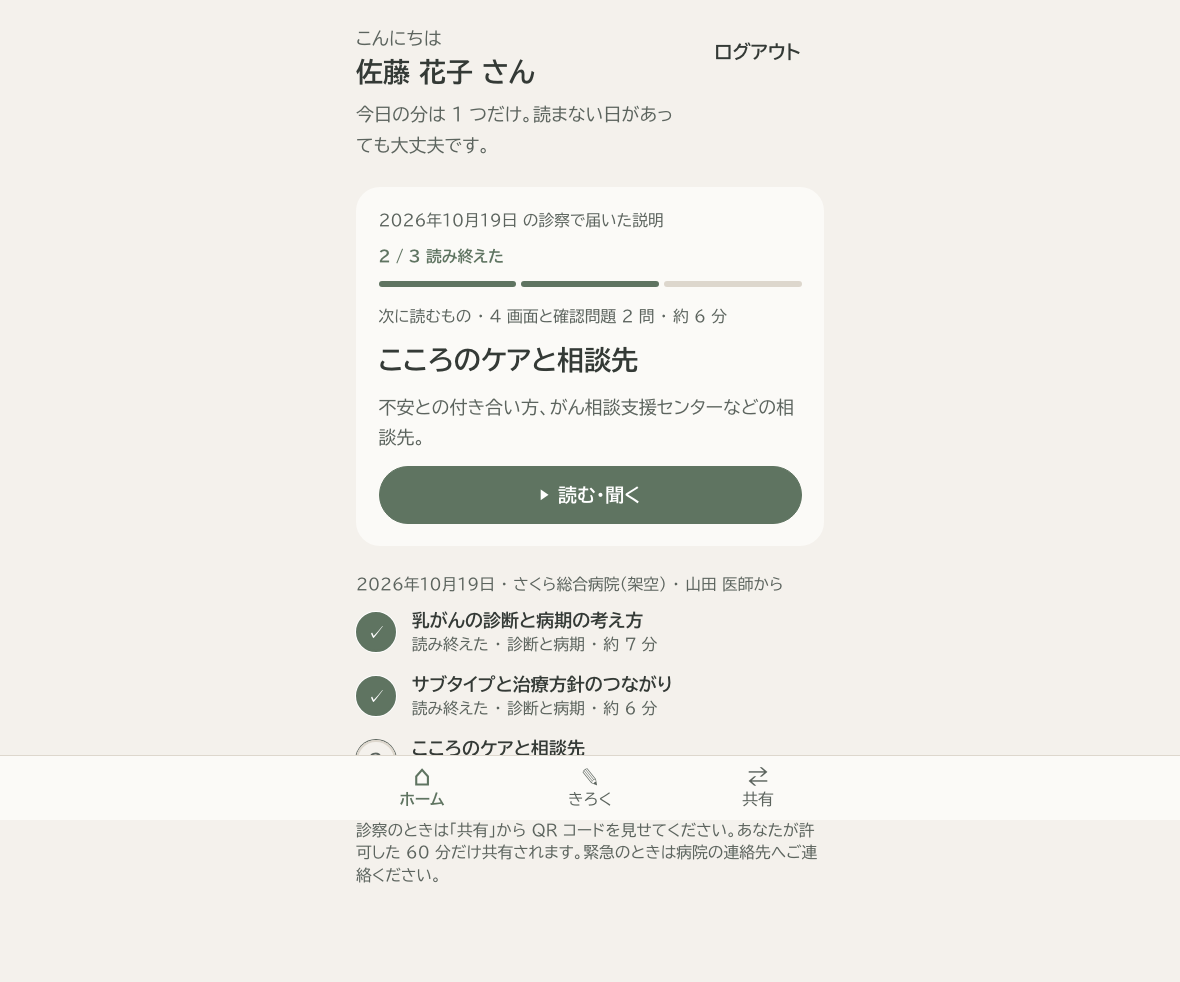
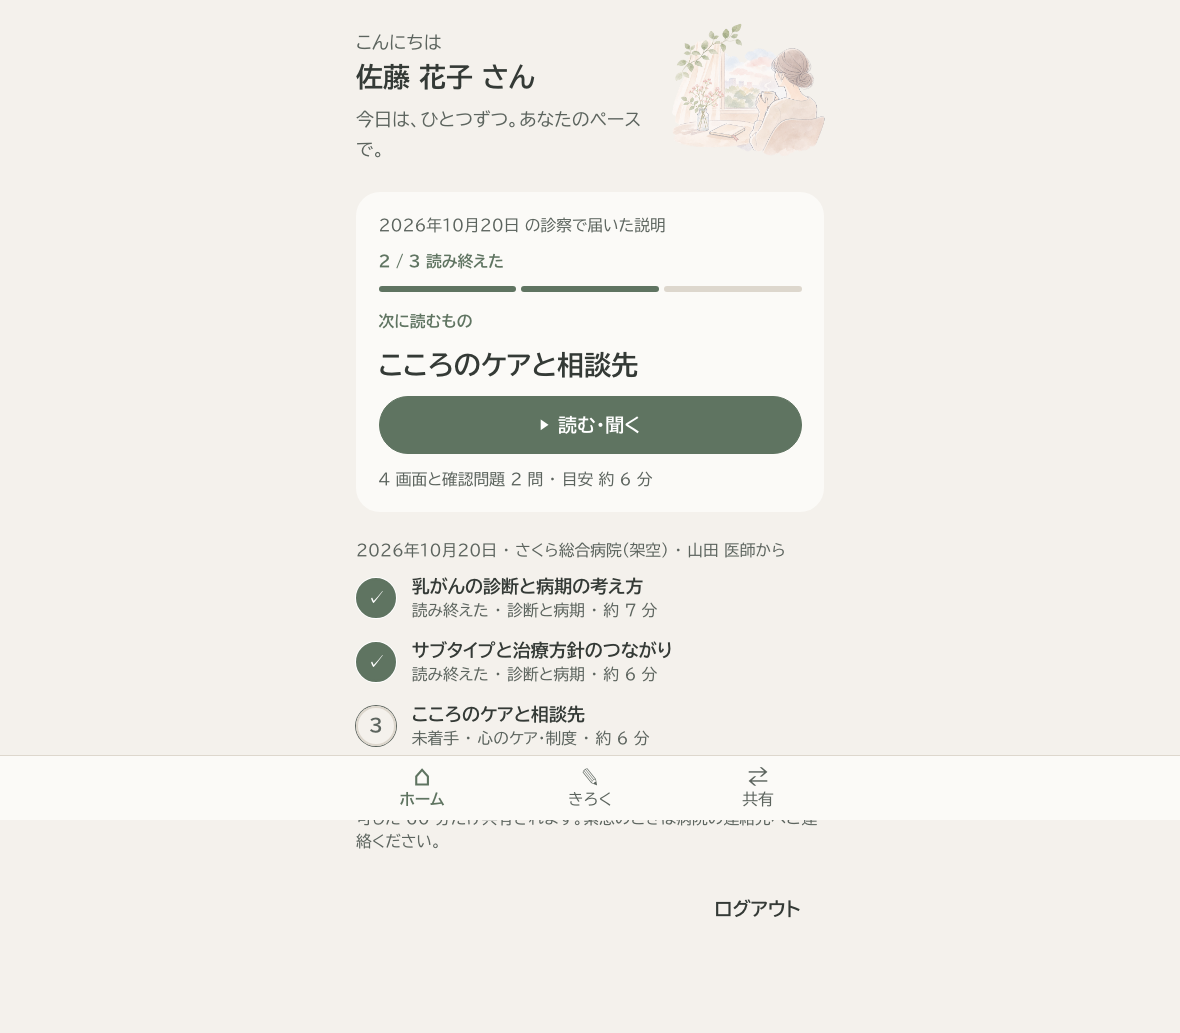
feat: home card hierarchy and greeting; MED-001 split into three independent assets
- Home: shorter greeting, next-material card reordered (label → title → CTA → meta); illustration
  shrinks to 118px at large text size; E2E covers 390/430/820/1180 and large-text 390/430
- MED-001 → MED-001-01 (primary lesion), -02 (breast and regional nodes), -03 (distant spread):
  independent pending_review assets with labels, captions, learning objectives and source refs;
  no sequencing implied; patient API still returns nothing until approved
- Admin preview shows learning objective, source refs and review note per figure
- docs/design/MED001_ASSET_SPEC.md (registration, placement, display sizes, initial labels);
  visual requirements CSV and integration spec updated

Changed region(s): [[0.3051, 0.2138, 0.7017, 0.9165], [0.3051, 0.0305, 0.5492, 0.1527], [0.5797, 0.0305, 0.7017, 0.1527]]

diff --git a/src/server/db/seed-figures.ts b/src/server/db/seed-figures.ts
@@ -13,23 +13,55 @@ export const SEED_FIGURES: {
   placements: { materialTitle: string; slideSeq: number; labels: FigureLabel[]; caption: string | null }[];
   /** 納品済みの配信ファイル（public/assets/<type>/ に存在すれば登録し、editorial は公開可として approved にする） */
   delivered?: { filename: string; width: number; height: number };
+  /** 根拠資料（監修プレビューに表示） */
+  sourceRefs?: { sourceId: string; section?: string; quote?: string }[];
 }[] = [
+  // 病期の考え方: 3 枚は「順番に進行する段階」ではなく、病期を考えるときに参照する別々の情報
   {
-    assetId: "MED-001",
+    assetId: "MED-001-01",
     type: "medical",
-    altText: "乳房周囲とわきの下の位置関係を示す乳がんの模式図",
-    longDescription: "成人女性の上半身の模式図。片側の乳房の位置と、わきの下のリンパ節の位置が読み取れる。小さな全身の輪郭で、離れた臓器との位置関係を控えめに示す。",
-    learningObjective: "病期を考えるには、乳房内の病変だけでなく、近くのリンパ節や離れた場所への広がりを確認すると知る",
+    altText: "乳房のなかにある原発病変の位置を示す模式図",
+    longDescription: "成人女性の片側の乳房を正面から見た端正な模式図。乳房のなかに病変の位置が控えめに示されている。病変は誇張しない。",
+    learningObjective: "病期を考える情報のひとつとして、乳房のなかの病変（原発病変）の大きさや位置を確認すると知る",
+    placements: [
+      {
+        materialTitle: "乳がんの診断と病期の考え方",
+        slideSeq: 1,
+        labels: [{ id: "primary", text: "乳房内の病変", anchor: { x: 50, y: 52 }, offset: { x: 0, y: 26 } }],
+        caption: "乳房のなかの病変（原発病変）。大きさや位置を確認します。",
+      },
+    ],
+  },
+  {
+    assetId: "MED-001-02",
+    type: "medical",
+    altText: "乳房とわきの下の領域リンパ節の位置関係を示す模式図",
+    longDescription: "成人女性の上半身の模式図。片側の乳房と、わきの下（腋窩）のリンパ節の位置関係が自然に読み取れる。",
+    learningObjective: "病期を考える情報のひとつとして、乳房に近いリンパ節（領域リンパ節）への広がりを確認すると知る",
     placements: [
       {
         materialTitle: "乳がんの診断と病期の考え方",
         slideSeq: 1,
         labels: [
-          { id: "breast", text: "乳房内の病変", anchor: { x: 38, y: 58 }, offset: { x: -14, y: 22 } },
-          { id: "node", text: "近くのリンパ節", anchor: { x: 52, y: 40 }, offset: { x: 10, y: -30 } },
-          { id: "distant", text: "離れた場所への広がり", anchor: { x: 84, y: 62 }, offset: { x: -4, y: 20 } },
+          { id: "breast", text: "乳房", anchor: { x: 40, y: 58 }, offset: { x: -10, y: 24 } },
+          { id: "node", text: "近くのリンパ節（わきの下）", anchor: { x: 60, y: 38 }, offset: { x: 10, y: -24 } },
         ],
-        caption: "病期を考えるときは、乳房のなかの病変だけでなく、近くのリンパ節や、離れた場所への広がりも確認します。",
+        caption: "乳房に近いリンパ節（わきの下など）への広がりを確認します。",
+      },
+    ],
+  },
+  {
+    assetId: "MED-001-03",
+    type: "medical",
+    altText: "全身の輪郭のなかで離れた臓器の位置を示す模式図",
+    longDescription: "成人女性の全身シルエットの模式図。乳房から離れた臓器（骨・肺・肝臓など）の位置関係を控えめに示す。病変の有無を断定しない。",
+    learningObjective: "病期を考える情報のひとつとして、離れた臓器への広がり（転移）の有無を確認すると知る",
+    placements: [
+      {
+        materialTitle: "乳がんの診断と病期の考え方",
+        slideSeq: 1,
+        labels: [{ id: "distant", text: "離れた臓器への広がり", anchor: { x: 50, y: 45 }, offset: { x: 0, y: 30 } }],
+        caption: "離れた臓器への広がり（転移）の有無を確認します。",
       },
     ],
   },

diff --git a/tests/integration/figures.test.ts b/tests/integration/figures.test.ts
@@ -37,7 +37,7 @@ describe("図解の配信ゲート（未承認は患者に出ない）", () => {
     const versionId = m.v!;
     // 配置はあるが pending_review（MED-001）
     const all = await listAllFiguresForVersion(versionId);
-    expect(all[1]?.[0]?.assetId).toBe("MED-001");
+    expect(all[1]?.map((f) => f.assetId)).toEqual(["MED-001-01", "MED-001-02", "MED-001-03"]);
     expect(all[1][0].reviewStatus).toBe("pending_review");
     const approved = await listApprovedFiguresForVersion(versionId);
     expect(approved[1] ?? []).toHaveLength(0);
@@ -55,15 +55,15 @@ describe("図解の配信ゲート（未承認は患者に出ない）", () => {
 
     // 画像ファイルが無いままでは承認できない。ファイルを登録すると承認でき、患者ビューに現れる
     const approver = principal("op.approver@example.com");
-    await expectAppError(reviewFigure(approver, "MED-001", "approved", null), 403, "ASSET_FILE_MISSING");
-    await getDb().update(figureAssets).set({ filename: "med_001_breast_stage_anatomy.png", width: 1536, height: 1024 }).where(eq(figureAssets.assetId, "MED-001"));
-    await reviewFigure(approver, "MED-001", "approved", "デモ用に承認");
+    await expectAppError(reviewFigure(approver, "MED-001-02", "approved", null), 403, "ASSET_FILE_MISSING");
+    await getDb().update(figureAssets).set({ filename: "med_001_02_regional_nodes.png", width: 1536, height: 1024 }).where(eq(figureAssets.assetId, "MED-001-02"));
+    await reviewFigure(approver, "MED-001-02", "approved", "デモ用に承認");
     const after = await getLearningView(uid(PATIENT_B), versionId);
     expect(after.slides[0].figures).toHaveLength(1);
-    expect(after.slides[0].figures[0].src).toBe("/assets/medical/med_001_breast_stage_anatomy.png");
-    expect(after.slides[0].figures[0].labels.map((l) => l.text)).toContain("近くのリンパ節");
+    expect(after.slides[0].figures[0].src).toBe("/assets/medical/med_001_02_regional_nodes.png");
+    expect(after.slides[0].figures[0].labels.map((l) => l.text)).toContain("近くのリンパ節（わきの下）");
     // 差し戻すと再び非表示
-    await reviewFigure(approver, "MED-001", "rejected", "位置関係を要確認");
+    await reviewFigure(approver, "MED-001-02", "rejected", "位置関係を要確認");
     expect((await getLearningView(uid(PATIENT_B), versionId)).slides[0].figures).toHaveLength(0);
   });
 
@@ -75,7 +75,7 @@ describe("図解の配信ゲート（未承認は患者に出ない）", () => {
     await expectAppError(requireMaterialRole(principal("nurse.tanaka@example.com"), versionId), 403, "NOT_MATERIAL_ORG_MEMBER");
     const editor = await requireMaterialRole(principal("op.editor@example.com"), versionId);
     expect(editor.canApprove).toBe(false);
-    await expectAppError(reviewFigure(principal("op.editor@example.com"), "MED-001", "pending_review", null), 403, "APPROVER_REQUIRED");
+    await expectAppError(reviewFigure(principal("op.editor@example.com"), "MED-001-01", "pending_review", null), 403, "APPROVER_REQUIRED");
     const approver = await requireMaterialRole(principal("op.approver@example.com"), versionId);
     expect(approver.canApprove).toBe(true);
     // 患者は不可

diff --git a/src/app/(patient)/home/page.tsx b/src/app/(patient)/home/page.tsx
@@ -33,7 +33,7 @@ export default async function PatientHome() {
         <div className="min-w-0 pt-1">
           <p className="text-ink-soft">こんにちは</p>
           <h1 className="text-2xl font-bold leading-snug">{u.name} さん</h1>
-          <p className="text-ink-soft mt-2">今日の分は 1 つだけ。読まない日があっても大丈夫です。</p>
+          <p className="text-ink-soft mt-2">今日は、ひとつずつ。あなたのペースで。</p>
         </div>
         {/* 挿絵は見出しの右。ログアウトは最下部に移し、ファーストビューを挨拶・挿絵・主役カードだけにする */}
         {edi && <EditorialIllustration src={edi.src} alt={edi.altText} className="shrink-0 -mt-1 -mr-1" />}
@@ -56,21 +56,19 @@ export default async function PatientHome() {
               </div>
             </>
           )}
-          <p className="text-sm text-ink-soft pt-1">
-            {inProgress ? "途中の教材" : "次に読むもの"} ・ {next.slideCount} 画面と確認問題 {next.questionCount} 問 ・ 約 {estimateMinutes(next.slideCount, next.questionCount)} 分
-          </p>
+          <p className="text-sm font-bold text-accent pt-1">{inProgress ? "途中の教材" : "次に読むもの"}</p>
           <h2 id="next-title" className="text-2xl font-bold leading-snug">
             {next.title}
           </h2>
-          {next.summary && <p className="text-ink-soft">{next.summary}</p>}
-          {next.phase === "reading" && (
-            <p className="text-sm text-ink-soft">
-              {Math.min(next.lastSlideSeq, next.slideCount)} / {next.slideCount} 画面まで読みました
-            </p>
-          )}
           <Link href={hrefFor(next)} className="btn btn-primary btn-block">
             <span aria-hidden>▶</span> {actionLabel(next)}
           </Link>
+          <p className="text-sm text-ink-soft">
+            {next.phase === "reading"
+              ? `${Math.min(next.lastSlideSeq, next.slideCount)} / ${next.slideCount} 画面まで読みました`
+              : `${next.slideCount} 画面と確認問題 ${next.questionCount} 問`}
+            {" ・ "}目安 約 {estimateMinutes(next.slideCount, next.questionCount)} 分
+          </p>
         </section>
       ) : allDone ? (
         <section className="card space-y-2">

diff --git a/src/server/db/seed.ts b/src/server/db/seed.ts
@@ -126,6 +126,7 @@ export async function seed(db: Db = getDb()) {
         altText: f.altText,
         longDescription: f.longDescription,
         learningObjective: f.learningObjective,
+        sourceRefs: f.sourceRefs ?? [{ sourceId: "internal-draft-stage", section: "病期とは（架空の院内原稿）", quote: "病期は、しこりの大きさ、近くのリンパ節への広がり、離れた臓器への広がりを基本に判断します。" }],
         filename: delivered?.filename ?? null,
         width: delivered?.width ?? null,
         height: delivered?.height ?? null,
@@ -134,14 +135,15 @@ export async function seed(db: Db = getDb()) {
         generatorNote: delivered ? "ChatGPT 画像生成。原画は docs/design/handoff_visual_v1/assets/" : "ChatGPT で制作予定（VISUAL_ASSET_SPECS_5.md）。未納品",
       })
       .onConflictDoNothing();
-    for (const pl of f.placements) {
+    for (const [order, pl] of f.placements.entries()) {
+      void order;
       const materialId = materialIdByTitle.get(pl.materialTitle);
       if (!materialId) continue;
       const [mat] = await db.select({ versionId: materials.currentPublishedVersionId }).from(materials).where(eq(materials.id, materialId)).limit(1);
       if (!mat?.versionId) continue;
       const [exists] = await db.select({ id: figurePlacements.id }).from(figurePlacements).where(eq(figurePlacements.assetId, f.assetId)).limit(1);
       if (exists) continue;
-      await db.insert(figurePlacements).values({ assetId: f.assetId, materialVersionId: mat.versionId, slideSeq: pl.slideSeq, labels: pl.labels, caption: pl.caption, sourceNote: "院内原稿（架空）" });
+      await db.insert(figurePlacements).values({ assetId: f.assetId, materialVersionId: mat.versionId, slideSeq: pl.slideSeq, labels: pl.labels, caption: pl.caption, sourceNote: "院内原稿（架空）", displayOrder: SEED_FIGURES.indexOf(f) });
     }
   }
 

diff --git a/tests/e2e/edi_home.spec.ts b/tests/e2e/edi_home.spec.ts
@@ -34,5 +34,31 @@ test("EDI-001 患者ホーム", async ({ browser }) => {
     await page.screenshot({ path: `${SHOT_DIR}/after_home_${vp.name}_full.png`, fullPage: true });
     await ctx.close();
   }
+  // 文字拡大（21px）時の 390 / 430
+  for (const vp of WIDTHS.filter((w) => w.width <= 430)) {
+    const { ctx, page } = await newPage(browser, { width: vp.width, height: vp.height });
+    await ctx.addInitScript(() => {
+      try {
+        localStorage.setItem("shiori.textsize", "large");
+      } catch {}
+    });
+    await demoLogin(page, "patient", "佐藤 花子");
+    await page.waitForLoadState("networkidle");
+    const r = await page.evaluate(() => {
+      const img = document.querySelector('img[alt="窓辺で静かに過ごす女性のイラスト"]')!.getBoundingClientRect();
+      const h1 = document.querySelector("h1")!.getBoundingClientRect();
+      const cta = document.querySelector("main a.btn-primary")!.getBoundingClientRect();
+      const inter = (a: DOMRect, b: DOMRect) => a.left < b.right && b.left < a.right && a.top < b.bottom && b.top < a.bottom;
+      return { fontSize: getComputedStyle(document.documentElement).fontSize, overlapsH1: inter(img, h1), overlapsCta: inter(img, cta), ctaTop: Math.round(cta.top), vh: window.innerHeight };
+    });
+    const audit = await layoutAudit(page);
+    report.push({ viewport: `${vp.name}-large`, ...r, overflowX: audit.overflowX });
+    expect(r.fontSize).toBe("21px");
+    expect(r.overlapsH1).toBe(false);
+    expect(r.overlapsCta).toBe(false);
+    expect(audit.overflowX).toBeLessThanOrEqual(0);
+    await page.screenshot({ path: `${SHOT_DIR}/after_home_${vp.name}_large.png`, fullPage: false });
+    await ctx.close();
+  }
   writeFileSync(`${SHOT_DIR}/edi_audit.json`, JSON.stringify(report, null, 2));
 });

diff --git a/src/components/patient/MedicalFigure.tsx b/src/components/patient/MedicalFigure.tsx
@@ -71,6 +71,32 @@ export function MedicalFigure({ figure, mode }: { figure: FigureView; mode: "pat
           <p className="leading-relaxed">{figure.longDescription}</p>
         </details>
       )}
+      {mode === "admin" && (
+        <div className="rounded-xl bg-bg p-3 text-sm space-y-1">
+          <p>
+            <span className="font-bold">学習目標:</span> {figure.learningObjective ?? "（未設定）"}
+          </p>
+          <p className="font-bold">根拠資料:</p>
+          {figure.sourceRefs.length === 0 ? (
+            <p className="text-ink-soft">（未登録）</p>
+          ) : (
+            <ul className="list-disc ml-5 text-ink-soft">
+              {figure.sourceRefs.map((r, i) => (
+                <li key={i}>
+                  {r.sourceId}
+                  {r.section ? ` ・ ${r.section}` : ""}
+                  {r.quote ? `「${r.quote}」` : ""}
+                </li>
+              ))}
+            </ul>
+          )}
+          {figure.reviewNote && (
+            <p>
+              <span className="font-bold">監修メモ:</span> {figure.reviewNote}
+            </p>
+          )}
+        </div>
+      )}
       <div className="flex flex-wrap items-center justify-between gap-2 text-xs text-ink-soft">
         {mode === "admin" ? (
           <span className={`pill ${figure.reviewStatus === "approved" ? "bg-wakakusa" : "bg-suna"}`}>

diff --git a/src/server/services/figures.ts b/src/server/services/figures.ts
@@ -26,6 +26,9 @@ export type FigureView = {
   sourceNote: string | null;
   reviewStatus: "draft" | "pending_review" | "approved" | "rejected";
   reviewedAt: Date | null;
+  learningObjective: string | null;
+  sourceRefs: { sourceId: string; section?: string; quote?: string }[];
+  reviewNote: string | null;
 };
 
 function toSrc(a: { type: "medical" | "editorial"; filename: string | null }): string | null {
@@ -62,6 +65,9 @@ export async function listApprovedFiguresForVersion(versionId: string, db: Db = 
       sourceNote: p.sourceNote,
       reviewStatus: a.reviewStatus,
       reviewedAt: a.reviewedAt,
+      learningObjective: a.learningObjective,
+      sourceRefs: a.sourceRefs,
+      reviewNote: a.reviewNote,
     });
   }
   return out;
@@ -110,6 +116,9 @@ export async function listAllFiguresForVersion(versionId: string, db: Db = getDb
       sourceNote: p.sourceNote,
       reviewStatus: a.reviewStatus,
       reviewedAt: a.reviewedAt,
+      learningObjective: a.learningObjective,
+      sourceRefs: a.sourceRefs,
+      reviewNote: a.reviewNote,
     });
   }
   return out;

diff --git a/tests/e2e/c2_screens.spec.ts b/tests/e2e/c2_screens.spec.ts
@@ -65,7 +65,8 @@ test("C2 医療者ダッシュボードと監修プレビュー（820 / 1180）"
   await op.page.getByRole("link", { name: /乳がんの診断と病期の考え方/ }).first().click();
   await op.page.waitForURL(/\/staff\/materials\/.+\/preview/);
   await expect(op.page.getByText(/管理者プレビュー/).first()).toBeVisible();
-  await expect(op.page.getByText(/監修待ち（MED-001/)).toBeVisible();
+  await expect(op.page.getByText(/監修待ち（MED-001-01/).first()).toBeVisible();
+  await expect(op.page.getByText(/監修待ち（MED-001-03/).first()).toBeVisible();
   await op.page.screenshot({ path: `${SHOT_DIR}/c2_admin_preview_1180.png`, fullPage: true });
   await op.ctx.close();
   await patient.ctx.close();

diff --git a/src/components/patient/EditorialIllustration.tsx b/src/components/patient/EditorialIllustration.tsx
@@ -8,6 +8,6 @@ export function EditorialIllustration({ src, alt, className = "", size = "defaul
   const width = size === "compact" ? "clamp(96px, 30vw, 118px)" : "clamp(118px, 38vw, 160px)";
   return (
     // eslint-disable-next-line @next/next/no-img-element
-    <img src={src} alt={alt} className={`pointer-events-none select-none object-contain ${className}`} style={{ width, height: "auto" }} />
+    <img src={src} alt={alt} className={`edi-illustration pointer-events-none select-none object-contain ${className}`} style={{ width, height: "auto" }} />
   );
 }

diff --git a/src/app/globals.css b/src/app/globals.css
@@ -291,6 +291,10 @@ body {
   border-color: var(--line);
   color: var(--ink-soft);
 }
+/* 挿絵: 文字拡大時は 118px に縮めて見出しの幅を確保する */
+html[data-textsize="large"] .edi-illustration {
+  width: clamp(96px, 30vw, 118px) !important;
+}
 /* 図解コンポーネント: ラベルレイヤー */
 .fig-label {
   position: absolute;

diff --git a/docs/design/MED001_ASSET_SPEC.md b/docs/design/MED001_ASSET_SPEC.md
@@ -1,0 +1,44 @@
+# MED-001 受け入れ仕様（3 枚の独立アセット・画像未納品）
+
+日付: 2026-11-03 / 配置先: 教材「乳がんの診断と病期の考え方」1 画面目「病期（ステージ）とは」
+原則: 3 枚は **順番に進行する段階ではなく、病期を考えるときに参照する別々の情報**として扱う。画面上でも矢印・番号で順序を示さない。
+
+## 1. 登録情報（`figure_assets`、シード済み・`pending_review`・`filename = null`）
+
+| asset_id | 主題 | alt | 学習目標 | ファイル名（納品時） | 推奨原画 |
+|---|---|---|---|---|---|
+| MED-001-01 | 乳房内の原発病変 | 乳房のなかにある原発病変の位置を示す模式図 | 病変の大きさ・位置を確認する情報と知る | `med_001_01_primary_lesion.png` | 1536×1024、透過 PNG、文字・数字・矢印なし |
+| MED-001-02 | 乳房と領域リンパ節の位置関係 | 乳房とわきの下の領域リンパ節の位置関係を示す模式図 | 近くのリンパ節への広がりを確認する情報と知る | `med_001_02_regional_nodes.png` | 同上 |
+| MED-001-03 | 離れた臓器への転移 | 全身の輪郭のなかで離れた臓器の位置を示す模式図 | 離れた臓器への広がりの有無を確認する情報と知る | `med_001_03_distant_spread.png` | 同上（縦長 1024×1280 も可） |
+
+- `copyright_status = internal_ai_generated`、`generator_note` に制作元と日付。
+- `source_refs`: 架空の院内原稿「病期とは」の該当文。実運用では原資料 ID・版・該当箇所に置換。
+- 納品は `node scripts/with-local-db.mjs node scripts/import-asset.mjs MED-001-01 <file>`。medical は `--approve` 不可（監修プレビューから承認）。
+
+## 2. 配置（`figure_placements`）
+
+| asset_id | slide_seq | display_order | caption（監修済み短文） | ラベル（アンカー％、初期値） |
+|---|---|---|---|---|
+| MED-001-01 | 1 | 0 | 乳房のなかの病変（原発病変）。大きさや位置を確認します。 | 乳房内の病変 (50, 52) → ラベル下 26% |
+| MED-001-02 | 1 | 1 | 乳房に近いリンパ節（わきの下など）への広がりを確認します。 | 乳房 (40, 58) → 左下 / 近くのリンパ節（わきの下）(60, 38) → 右上 |
+| MED-001-03 | 1 | 2 | 離れた臓器への広がり（転移）の有無を確認します。 | 離れた臓器への広がり (50, 45) → 下 30% |
+
+ラベル座標は画像納品後に実画面で調整する（`figure_placements.labels` の JSON を更新するだけ。コード変更不要）。
+
+## 3. 表示寸法
+
+| 幅 | レイアウト | 画像の表示幅 | 備考 |
+|---|---|---|---|
+| 375 / 390 / 430px（患者） | 縦に 3 枚（1 列） | 本文幅いっぱい（約 331〜371px） | 各図の下にラベル一覧と caption。順序は display_order だが番号は付けない |
+| 820px 以上（患者レイアウト最大幅 448px） | 1 列のまま | 約 400px | iPad でも患者レイアウトは中央 448px |
+| 管理者プレビュー（1180px） | 1 列（最大幅 672px） | 約 630px | 画像・ラベル・caption・学習目標・根拠資料・監修バッジ・承認操作 |
+
+画像はアスペクト比を保ち `object-contain`。画像が無い間は患者画面に何も出さない（文章が続く）。
+
+## 4. 患者画面での文章（図が無くても成立）
+
+1 画面目は「命題 → 本文 → くわしく」で学習が完結する。3 枚が承認されると、命題の直後に 3 枚（各ラベル・caption 付き）が入り、本文はそのまま続く。
+
+## 5. 監修プレビューで確認できる項目
+
+画像、ラベル位置、caption、学習目標、根拠資料（`source_refs`）、監修状態・メモ、承認／差し戻し。編集者はプレビューのみ、承認者は状態変更可。

diff --git a/docs/design/ASSET_INTEGRATION_SPEC.md b/docs/design/ASSET_INTEGRATION_SPEC.md
@@ -23,7 +23,7 @@
 
 | asset_id | 配置画面（教材 / 画面） | 役割 | UI 側で持つラベル・注釈 | 監修 |
 |---|---|---|---|---|
-| MED-001 | 乳がんの診断と病期の考え方 / 1「病期とは」 | 主図解 | 乳房内の病変／近くのリンパ節／離れた場所への広がり。補足「病期の判断には、ほかの検査情報や腫瘍の性質が関わることもあります」（要医療者確認） | 必須（解剖位置、分類体系） |
+| MED-001-01 / -02 / -03 | 乳がんの診断と病期の考え方 / 1「病期とは」 | 主図解（3 枚を独立した情報として並べる。順序・段階は示さない） | 01: 乳房内の病変 ／ 02: 乳房・近くのリンパ節（わきの下） ／ 03: 離れた臓器への広がり。詳細は `MED001_ASSET_SPEC.md` | 必須（解剖位置、分類体系） |
 | MED-002 | 薬物療法の種類 / 1「3 つの種類」（および 乳房の手術 / 2「温存手術と放射線」で順序の例に流用可） | 主図解（場面集） | 画面側で「薬物療法 → 手術 → その後の治療」「手術 → その後の治療」など複数の例を並べる。適用対象（早期乳がん等）を明示 | 必須（順序の例、適用対象） |
 | MED-003 | 化学療法中の副作用とセルフケア / 4「すぐ連絡するサイン」 | 主図解 | 「症状に気づく → 連絡先を確認する → 医療者に相談する」。具体的な連絡基準は施設の監修済み資料のみ表示 | 必須（連絡基準、窓口） |
 | MED-004 | こころのケアと相談先 / 2「相談できる人」 | 主図解 | 主治医・看護師／がん相談支援センター／心理・社会的な支援（原資料で案内される相談先のみ） | 必須（施設で利用できる経路） |
